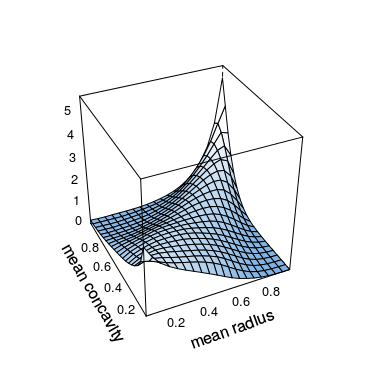
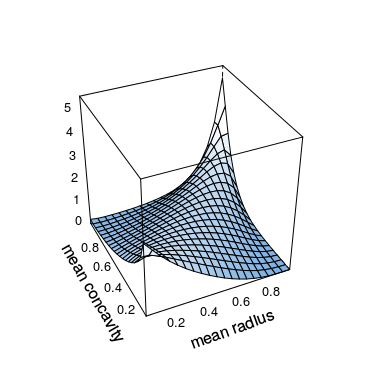
update README

Changed region(s): [[0.2188, 0.2812, 0.7188, 0.75], [0.1562, 0.25, 0.1875, 0.375], [0.1875, 0.4062, 0.2188, 0.5]]

diff --git a/README.md b/README.md
@@ -99,20 +99,19 @@ summary(kde.fit)
 #> Variables:    mean radius -- mean concavity 
 #> Observations: 569 
 #> Method:       Transformation local likelihood, log-quadratic ('TLL2') 
-#> Bandwidth:    alpha = 0.353621
-#>               B = matrix(c(0.71, 0.7, -1.09, 1.09), 2, 2)
+#> Bandwidth:    matrix(c(2.63, 1.67, 0, 2.01), 2, 2)
 #> ---
-#> logLik: 197.28    AIC: -360.19    cAIC: -359.06    BIC: -285.56 
-#> Effective number of parameters: 17.18
+#> logLik: 192.41    AIC: -363.13    cAIC: -362.67    BIC: -316.03 
+#> Effective number of parameters: 10.84
 ```
 
 The output of the function `kdecop` is an object of class `kdecopula` that contains all information collected during the estimation process and summary statistics such as *AIC* or the *effective number of parameters/degrees of freedom*. These can also be accessed directly, e.g.
 
 ``` r
 logLik(kde.fit)
-#> 'log Lik.' 197.2755 (df=17.18016)
+#> 'log Lik.' 192.4111 (df=10.84394)
 AIC(kde.fit)
-#> [1] -360.1907
+#> [1] -363.1344
 ```
 
 #### Plotting bivariate copula densities
@@ -162,9 +161,9 @@ The density and *cdf* can be computed easily:
 
 ``` r
 dkdecop(c(0.1, 0.2), kde.fit)  # estimated copula density
-#> [1] 1.690376
+#> [1] 1.766521
 pkdecop(cbind(c(0.1, 0.9), c(0.1, 0.9)), kde.fit) # corresponding copula cdf
-#> [1] 0.03254441 0.85154412
+#> [1] 0.03415951 0.84975138
 ```
 
 Furthermore, we can simulate synthetic data from the estimated density:
